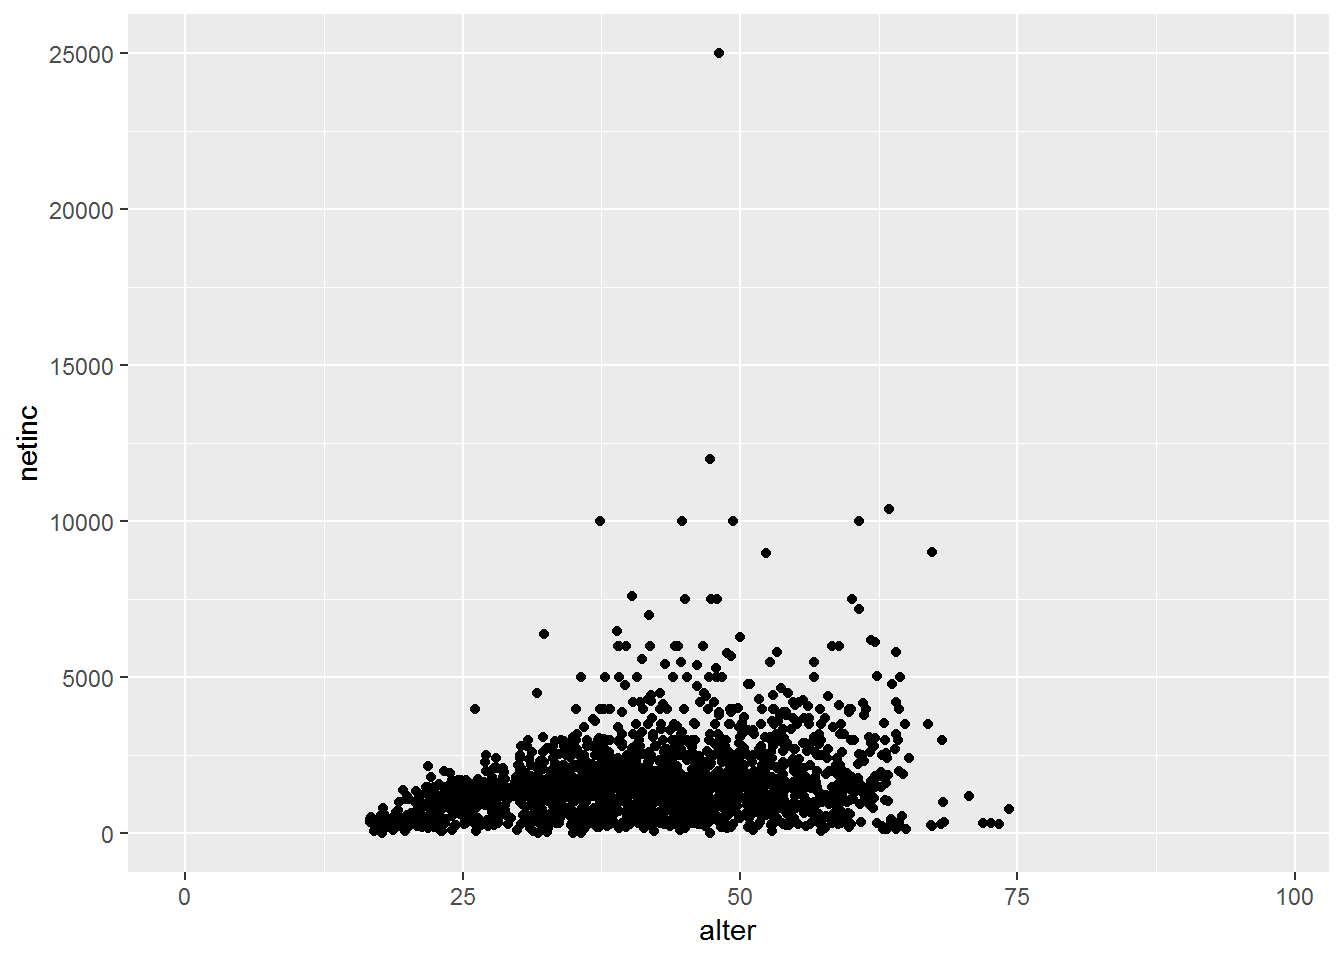
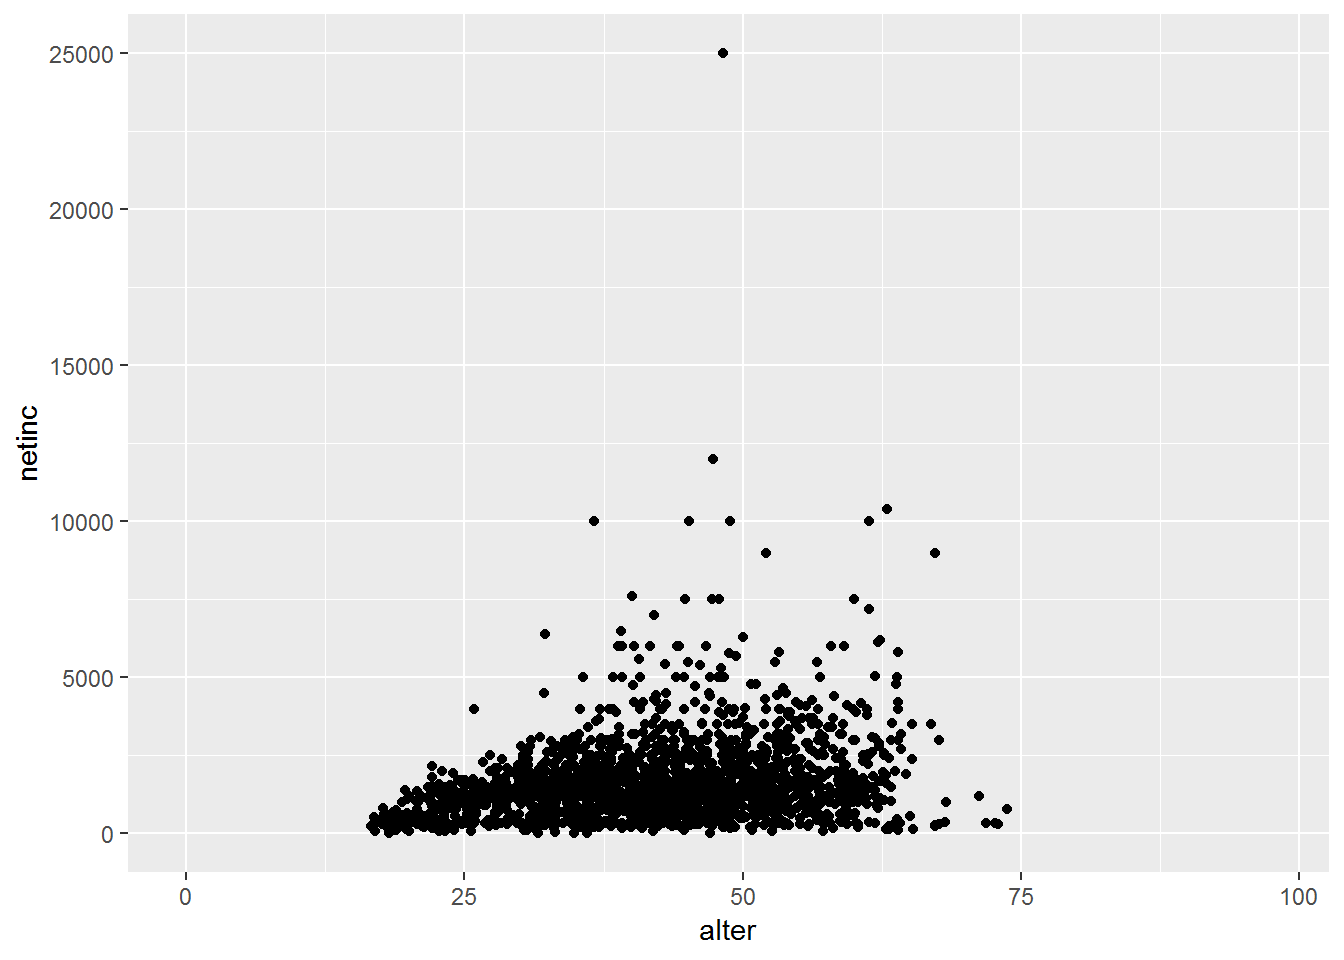
jekyll next try

diff --git a/docs/datamanagement.html b/docs/datamanagement.html
@@ -499,12 +499,12 @@ econ$netinc = recode(econ$tp7602,&quot;-3=NA;-2=NA;-1=NA&quot;)
 econ_data &lt;- econ[,c(&quot;netinc&quot;,&quot;alter&quot;,&quot;sex&quot;,&quot;contract&quot;,&quot;actual&quot;,&quot;trust&quot;,&quot;rely&quot;)]
 head(econ_data)</code></pre>
 <pre><code>##       netinc alter      sex contract actual trust rely
-## 13585     NA     7 weiblich       NA     NA    NA   NA
-## 6450      NA    23 weiblich       NA     NA     3    2
-## 797       NA    81 männlich       NA     NA     2    2
-## 5212      NA     6 weiblich       NA     NA    NA   NA
-## 13906     NA     9 weiblich       NA     NA    NA   NA
-## 3091    2500    36 männlich       39     40     2    3</code></pre>
+## 10502   1250    27 weiblich     40.0     55     2    4
+## 2853    1800    50 weiblich     38.5     45     2    3
+## 11107   2005    38 männlich     37.5     40     2    2
+## 12494     NA     3 männlich       NA     NA    NA   NA
+## 12655     NA    23 weiblich       NA     NA     3    2
+## 1530      NA    59 weiblich       NA     NA     2    3</code></pre>
 <pre class="r"><code># Delete NAs
 econ_data &lt;- na.omit(econ_data)
 
@@ -513,8 +513,8 @@ econ_data &lt;- na.omit(econ_data)
 hist(econ$netinc)</code></pre>
 <p><img src="datamanagement_files/figure-html/unnamed-chunk-2-1.png" width="672" /></p>
 <pre class="r"><code>quantile(econ_data$netinc)</code></pre>
-<pre><code>##    0%   25%   50%   75%  100% 
-##     0   800  1388  1900 10000</code></pre>
+<pre><code>##      0%     25%     50%     75%    100% 
+##     0.0   800.0  1300.0  1838.5 10000.0</code></pre>
 <pre class="r"><code>econ_data$inc_kat &lt;- NA
 econ_data$inc_kat [econ_data$netinc &lt; quantile(econ_data$netinc)[2]] &lt;- &quot;Q1&quot;
 econ_data$inc_kat [econ_data$netinc &gt;= quantile(econ_data$netinc)[2] &amp; econ_data$netinc &lt; quantile(econ_data$netinc)[3]] &lt;- &quot;Q2&quot;
@@ -524,7 +524,7 @@ econ_data$inc_kat [econ_data$netinc &gt;= quantile(econ_data$netinc)[4] ] &lt;- 
 table(econ_data$inc_kat)</code></pre>
 <pre><code>## 
 ##  Q1  Q2  Q3  Q4 
-## 423 428 410 442</code></pre>
+## 421 409 451 427</code></pre>
 </div>
 <div id="advanced-dm-the-tidyverse" class="section level1">
 <h1><span class="header-section-number">3</span> Advanced DM: The tidyverse</h1>
@@ -538,12 +538,12 @@ table(econ_data$inc_kat)</code></pre>
 
 head(econ_data)</code></pre>
 <pre><code>##   netinc alter      sex contract actual trust rely inc_kat alter_squared
-## 1   2500    36 männlich     39.0   40.0     2    3      Q4          1296
-## 2   1000    41 männlich     40.0   50.0     3    2      Q2          1681
-## 3   1715    39 männlich     38.5   38.5     2    3      Q3          1521
-## 4   1900    38 männlich     40.0   60.0     2    2      Q4          1444
-## 5   1292    32 weiblich     40.0   45.0     2    3      Q2          1024
-## 6    600    48 weiblich     30.0   32.0     2    3      Q1          2304</code></pre>
+## 1   1250    27 weiblich     40.0     55     2    4      Q2           729
+## 2   1800    50 weiblich     38.5     45     2    3      Q3          2500
+## 3   2005    38 männlich     37.5     40     2    2      Q4          1444
+## 4    325    32 weiblich      8.0      9     3    3      Q1          1024
+## 5   1300    46 männlich     40.0     50     2    2      Q3          2116
+## 6    600    42 männlich     40.0     40     2    3      Q1          1764</code></pre>
 </div>
 <div id="summarise" class="section level2">
 <h2><span class="header-section-number">3.2</span> Summarise</h2>
@@ -551,8 +551,8 @@ head(econ_data)</code></pre>
 <pre class="r"><code>econ_data %&gt;% 
   summarise(mean = mean(alter,na.rm = T),
             sd = sd(alter,na.rm = T))</code></pre>
-<pre><code>##       mean     sd
-## 1 40.56841 11.564</code></pre>
+<pre><code>##       mean       sd
+## 1 40.21194 11.49013</code></pre>
 </div>
 <div id="group_by" class="section level2">
 <h2><span class="header-section-number">3.3</span> group_by</h2>
@@ -564,7 +564,7 @@ head(econ_data)</code></pre>
 <pre><code>## # A tibble: 1 x 2
 ##    mean    sd
 ##   &lt;dbl&gt; &lt;dbl&gt;
-## 1  40.6  11.6</code></pre>
+## 1  40.2  11.5</code></pre>
 </div>
 </div>
 
